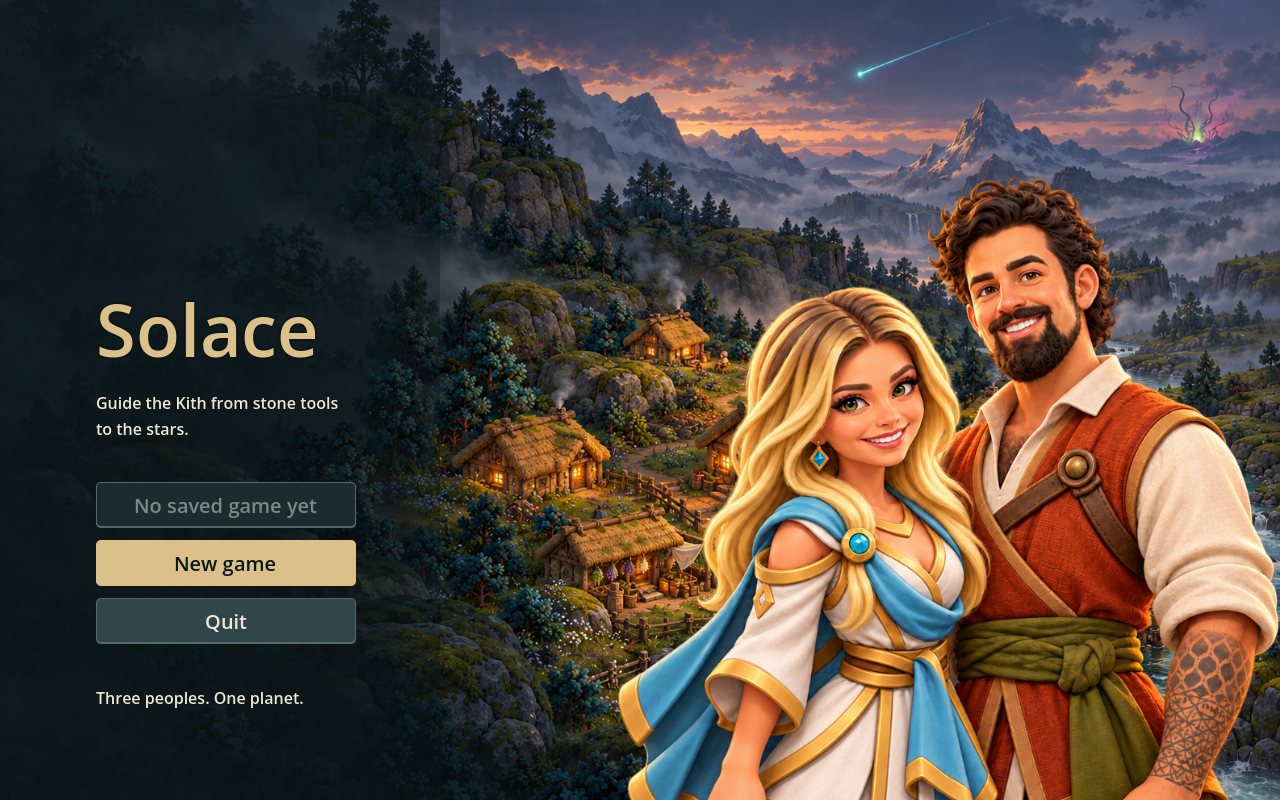
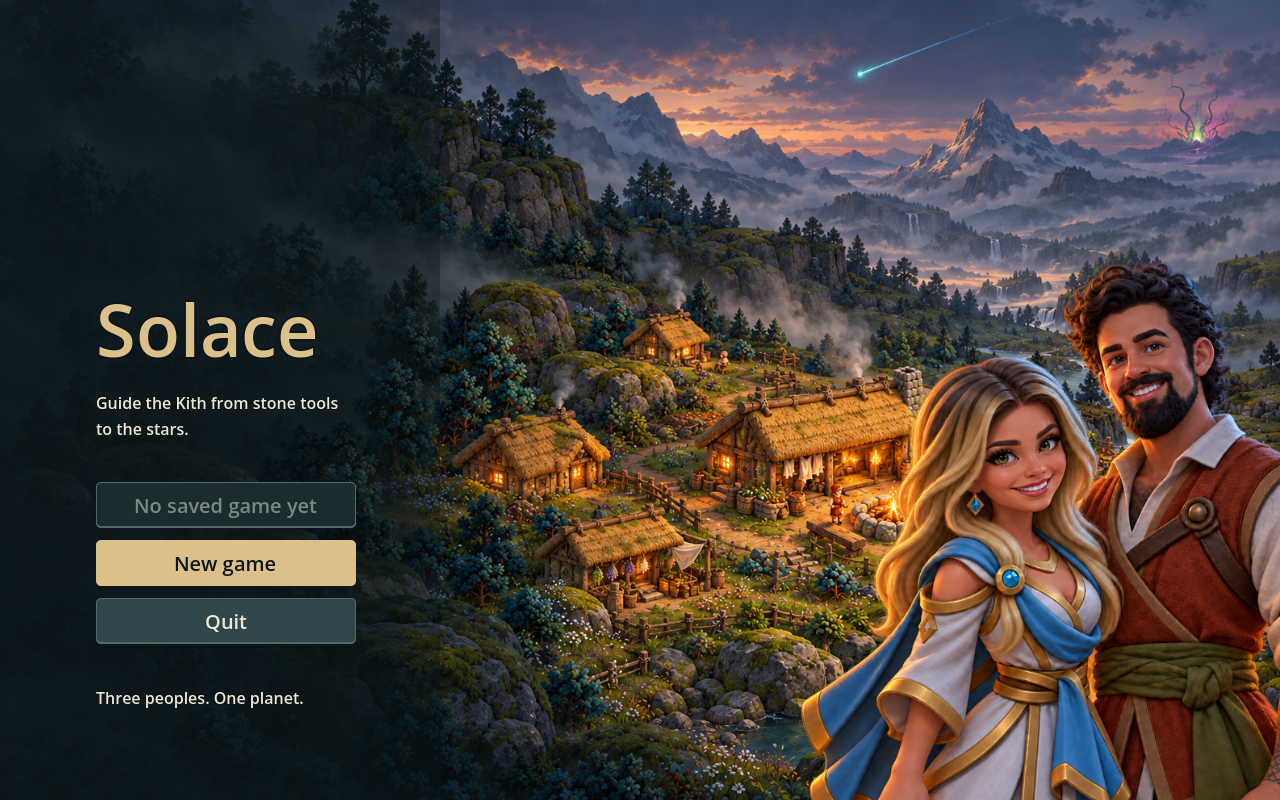
Make title v4 smaller and relight the pair for dusk

Changed region(s): [[0.4688, 0.2188, 1.0, 1.0]]

diff --git a/docs/art/title-pair/README.md b/docs/art/title-pair/README.md
@@ -1,10 +1,10 @@
-# Briana and Jon: foreground title pair (PR #75)
+# Briana and Jon: title v4 (PR #75)
 
 Jon directed a staged workflow: draw each character separately at a lower camera angle, then pair them in the foreground with the original approved town painting behind. This composition replaces the three rejected middle-distance/giant attempts.
 
 ## Delivered
 - `art/rendered/title_briana.png`: 1586×992 alternate title, no text. The Kith/Lumen pair occupies a separate near foreground plane on the right; the original dusk town and sky are behind. The left menu area remains clear.
-- `art/rendered/title-pair-foreground.png`: generated transparent paired foreground, copied unchanged, with Godot import. Region **[305,9,1044,983]**. Preserve this layer for future layout changes rather than regenerating the landscape.
+- `art/rendered/title-pair-foreground.png`: generated transparent paired foreground, copied unchanged, with Godot import. Region **[304,0,1054,992]**. Preserve this layer for future layout changes rather than regenerating the landscape.
 - `original-background.png`: byte-identical approved painting from PR #68, retained here as the reproducible composition input. The production default title is not replaced.
 - [Separate Briana study](../briana/character-v2.png), [separate Jon study](../jon-kith/character-v1.png) and [Briana v1 reference](../briana/reference/briana-v1.png) remain available.
 
@@ -14,14 +14,14 @@ Jon directed a staged workflow: draw each character separately at a lower camera
 ## Layers and provenance
 Built-in `image_gen` used the original painting and two separate character studies for a composition study, then extracted a transparent pair. That generator may reinterpret details of the reference studies; the extracted layer is a new generated asset, not a pixel-identical paste of each individual. Its study is retained as `composition-study.png` and is not the final title background.
 
-`compose.gd` renders the approved original background texture plus the paired foreground in Godot. It does not rewrite either source texture. [layers.json](layers.json) records the exact crop/layout: canvas 1586×992, foreground box approximately [764.224,218.24,821.776,773.76]. Both background and foreground originals were checked byte-identical to their selected tool outputs. [Prompts and source records](prompts.json).
+`compose.gd` renders the approved original background texture plus the paired foreground in Godot. It does not rewrite either source texture. [layers.json](layers.json) records the exact crop/layout: canvas 1586×992, foreground box approximately [991.25,317.44,716.72,674.56]. Both background and foreground originals were checked byte-identical to their selected tool outputs. [Prompts and source records](prompts.json).
 
-The default title background is unchanged. This final image retains the original source resolution; the original painting is below the approximately 2560×1600 request. No artificial enlargement is used to claim extra detail. Foreground figures intentionally cover some village details, including much of the Hearth; scale is now explained by the near foreground crop rather than by giant inhabitants.
+The default title background is unchanged. This final image retains the original source resolution; the original painting is below the approximately 2560×1600 request. No artificial enlargement is used to claim extra detail. V4 reduces pair height from 78% to 68% of canvas (about 13% smaller), moves the pair farther right and deliberately crops the right shoulder/arm at the edge. Both faces remain inside the title crop. This exposes the warm Hearth fire and more town/river while preserving the star and Bloom hint. Cooler dusk fill, subdued frontal highlights and warm left/cool right rim light tie the pair to the scene. V3 and its prior source/layout/menu previews are preserved under `archive/v3/`; [v4 review image](title-v4.png) and [relighting prompt](v4-prompt.json) record this revision.
 
 ## Claude hookup
-Use `res://art/rendered/title_briana.png` as the alternate title image. Keep `title.png` as the default, preserve existing menu/save behavior and cover scaling. The alternate still needs a selection hook; this PR does not alter production code. If later drawing the two layers independently, use the measured region and layout manifest, and scale/crop both together to preserve this composition.
+Claude already added alternate selection in main through PR #74: with both `title.png` and `title_briana.png` present, the title chooses randomly between them; with just one, it shows that one. The original painting is supplied separately in PR #68, so merge that too for both choices. This PR preserves the caller/menu/save behavior and does not edit production code. If later drawing the two layers independently, use the measured region and layout manifest, and scale/crop both together to preserve this composition.
 
 This title artwork does not add Jon as a gameplay person or change visitor counts. The 24 px Briana map slot remains its separate review/hook requirement; do not reuse a title portrait as a map sprite.
 
 ## Validation
-Godot-generated imports for both production PNGs passed. The reproducible two-layer render passed. Actual existing title-menu captures (preview-only injected alternate texture, no run save changes) were inspected at 1280×800 and 1600×900: menu labels/buttons clear; both faces, falling star head and distant Bloom visible. At 16:9 the top of the star trail is cropped, matching the existing cover behavior. Full CI status is tracked on PR #75; future production selection requires its own in-game check.
+Godot-generated imports for both production PNGs passed. The reproducible two-layer render passed. Actual existing title-menu captures (preview-only injected alternate texture, no run save changes) were inspected at 1280×800 and 1600×900: menu labels/buttons clear; both faces, falling star head and distant Bloom visible. At 16:9 the top of the star trail is cropped, matching the existing cover behavior. Full CI status is tracked on PR #75; production selection follows Claude’s existing #74 hook; current captures inject v4 to inspect it deterministically.

diff --git a/docs/HANDOFF.md b/docs/HANDOFF.md
@@ -4,12 +4,12 @@ Owner: Jon (heezus). Two AI teams, one repo, coordinated by responsibility. On 2
 
 ## Active work
 
-### Codex — Briana and Jon foreground title pair
-- **Task:** Jon requested separate lower-angle character studies, then authorized pairing both in the foreground with the original approved town behind. Branch `codex/lumen-briana`, PR #75.
-- **Reserved files:** none after publication; delivered Briana map sprite/import, `art/rendered/title_briana.png`, `art/rendered/title-pair-foreground.png` with imports, `docs/art/briana/`, `docs/art/jon-kith/`, `docs/art/title-pair/`, current requests and design decisions. No Claude-reserved code edits.
-- **Acceptance criteria:** two independent character studies retained; v1 Briana saved as reference, rejected title attempts archived. Pair reads as near foreground, exact original painting behind, quiet left menu third, no text. Imported production textures and actual title-menu previews verified.
-- **Status:** delivered. Built-in image generation produced a separate transparent pair; Godot rendered it over the unchanged original background. Byte-identical source checks, imports and 1280×800/1600×900 actual menu previews passed. Output 1586×992; original resolution limitation remains. Full CI tracked on #75. Private photos outside Git; Jon is title art only, not a new gameplay visitor.
-- **Next action:** Claude reviews the current pair and adds alternate-title selection per `docs/art/title-pair/README.md`; map sprite index 0 remains a separate hookup/review. Merge after CI green and visual review. Saved #73 art and overhaul documentation cleanup remain queued.
+### Codex — Briana and Jon title v4
+- **Task:** Jon requested v4: slightly smaller foreground characters and dusk lighting matching the original background, retaining title-menu space, Hearth fire, falling star and Bloom hint. Branch `codex/lumen-briana`, PR #75.
+- **Reserved files:** none after publication; delivered `art/rendered/title_briana.png`, relit `title-pair-foreground.png` with imports, `docs/art/title-pair/` v4/source/layers/menu previews and v3 archive; current art requests and design decisions. No Claude-reserved code edits.
+- **Acceptance criteria:** pair about 13% smaller (canvas height 68% versus 78%), cool ambient fill with restrained warm/cool rim light, actual original background unchanged, both faces inside frame, menu clear and narrative landmarks visible.
+- **Status:** v4 complete. Original source byte check, foreground source byte check, Godot imports, native layered render and actual title-menu captures at 1280×800/1600×900 passed. Output remains 1586×992; right shoulder/arm crop is intentional foreground framing. Prior versions archived. Full CI tracked on #75; synchronization with main resolves shared docs conflicts.
+- **Next action:** Claude reviews v4 and merges after CI green. Alternate title selection already exists in #74; also merge original-title #68 so both images are available. Briana map/portrait art remains separate; Jon is title art only, not a gameplay visitor. Saved #73 art and overhaul documentation cleanup remain queued.
 
 ### Claude — Starfall stage 4
 - **Task:** Jon's "whatever else is next" (2026-10-07). Page 16 stage 4: Lumen Market, Shared Shrine, Guard Post. Stage 3 (#64) and the title screen, pause menu and zoom (#66) are merged. PR `stage4`.

diff --git a/docs/art/requests.md b/docs/art/requests.md
@@ -56,7 +56,7 @@ Visual engine wiring is owned by Codex under the updated [handoff](../HANDOFF.md
 - [x] Withdraw all three rejected title attempts from active review/production delivery. Last rejected title/captures archived; the other two were never production assets. Original approved title unchanged.
 - [ ] **Character stage:** Jon asks for a lower-angle v2 closer to the game's miniature style. [Current standalone character](briana/character-v2.png) is ready for visual review, with [status and references](briana/README.md).
 - [x] **Composition stage:** Jon authorized pairing both; the [foreground pair title](title-pair/README.md) is delivered at `art/rendered/title_briana.png`, with a separate imported foreground layer and exact original background. Actual title-menu captures inspected at 1280×800/1600×900.
-- [ ] **Claude hookup:** select the current pair alternate title per `title-pair/README.md`; do not hook the rejected title or automatically use the lower-angle design as a top-down map sprite. Eventually Briana replaces stranger index 0, retaining the existing three visitors, footprint, aura/sway and save behavior. Dedicated idle-frame slot does not currently exist.
+- [ ] **Claude review:** alternate selection is already wired on main via #74; use current v4 and merge original-title #68 for both launch choices. See `title-pair/README.md`; do not hook the rejected title or automatically use the lower-angle design as a top-down map sprite. Eventually Briana replaces stranger index 0, retaining the existing three visitors, footprint, aura/sway and save behavior. Dedicated idle-frame slot does not currently exist.
 
 ## Jon as a Kith — separate character stage, 2026-10-06 (PR #75)
 - [x] Prepare [standalone Kith likeness](jon-kith/README.md) from Jon's private supplied photos; keep those photos outside Git. Character-only review asset, not a new gameplay person.

diff --git a/docs/design-system/decision-log.md b/docs/design-system/decision-log.md
@@ -665,3 +665,8 @@ Stage 2 of 2: the nine gated techs now do something, the gate is gone, and the e
 - Preserve the exact approved title painting as the background texture. Generate an independent transparent paired foreground and compose the two in Godot, retaining sources and layout for future adjustment.
 - Keep the left menu area clear and preserve title/save behavior; deliver the alternate PNG and source layer, with Claude selection notes. The output remains 1586×992, the original painting's resolution.
 - This supersedes the rejected giant/middle-distance title attempts. Jon's likeness is title artwork, not a new gameplay character; the Briana map slot is reviewed independently.
+
+## 2026-10-06: Smaller dusk-lit title pair v4 (PR #75)
+- Codex follows Jon's v4 request: reduce pair height from 78% to 68% of the canvas, about 13%, and move them right to reveal the Hearth fire and more town behind.
+- Relight the transparent pair with cool dusk fill, quieter frontal highlights, warm village light on the left edges and pale cool rim on sky-facing edges. Preserve identities, clothing and the original approved background texture.
+- Keep both faces visible, the left menu area clear, the falling star head and distant Bloom hint present at 1280×800 and 1600×900. Right arm/shoulder crop is intentional foreground framing; v3 remains archived for comparison.
